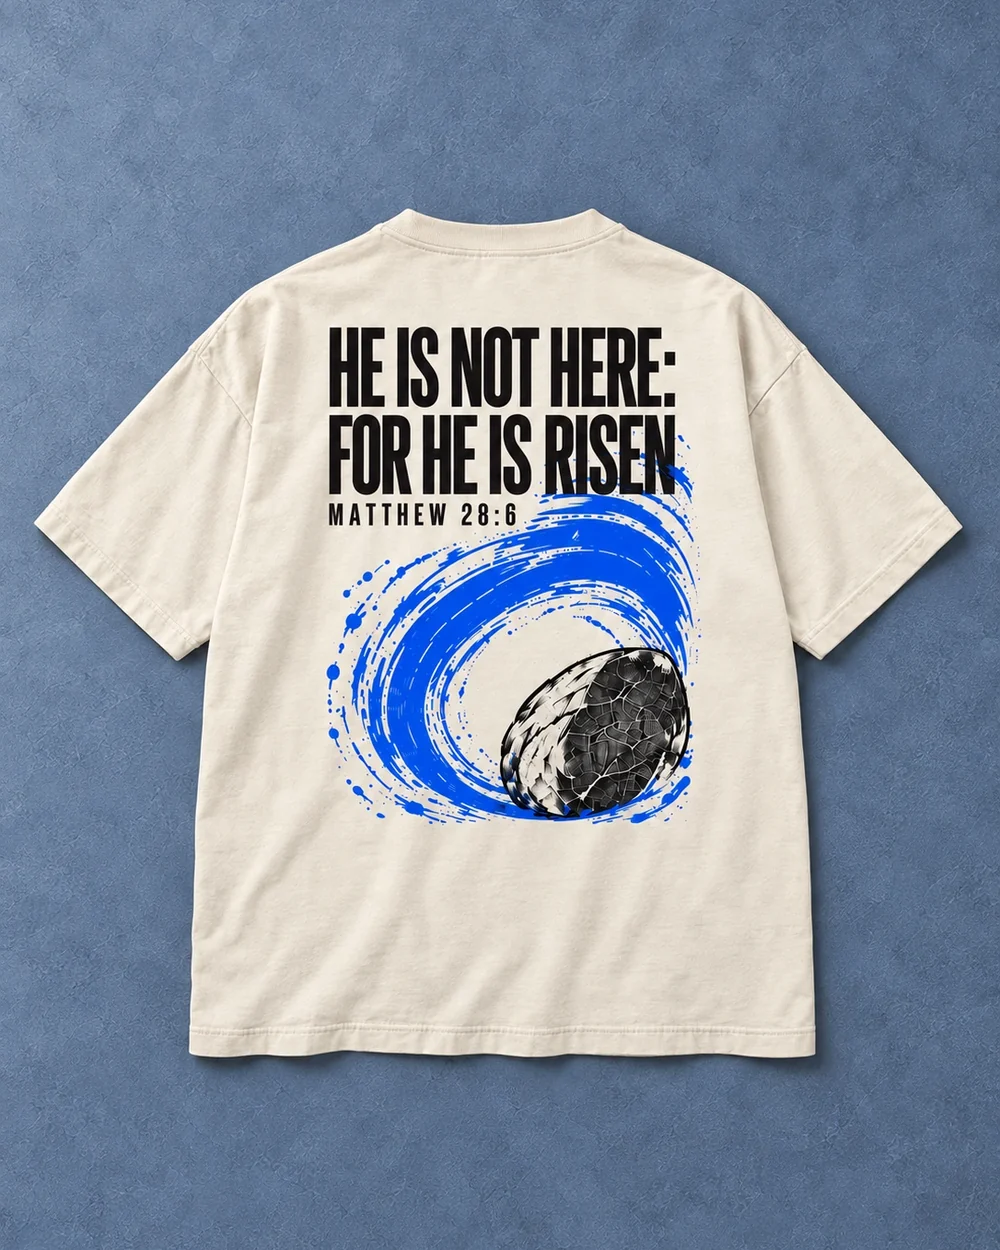
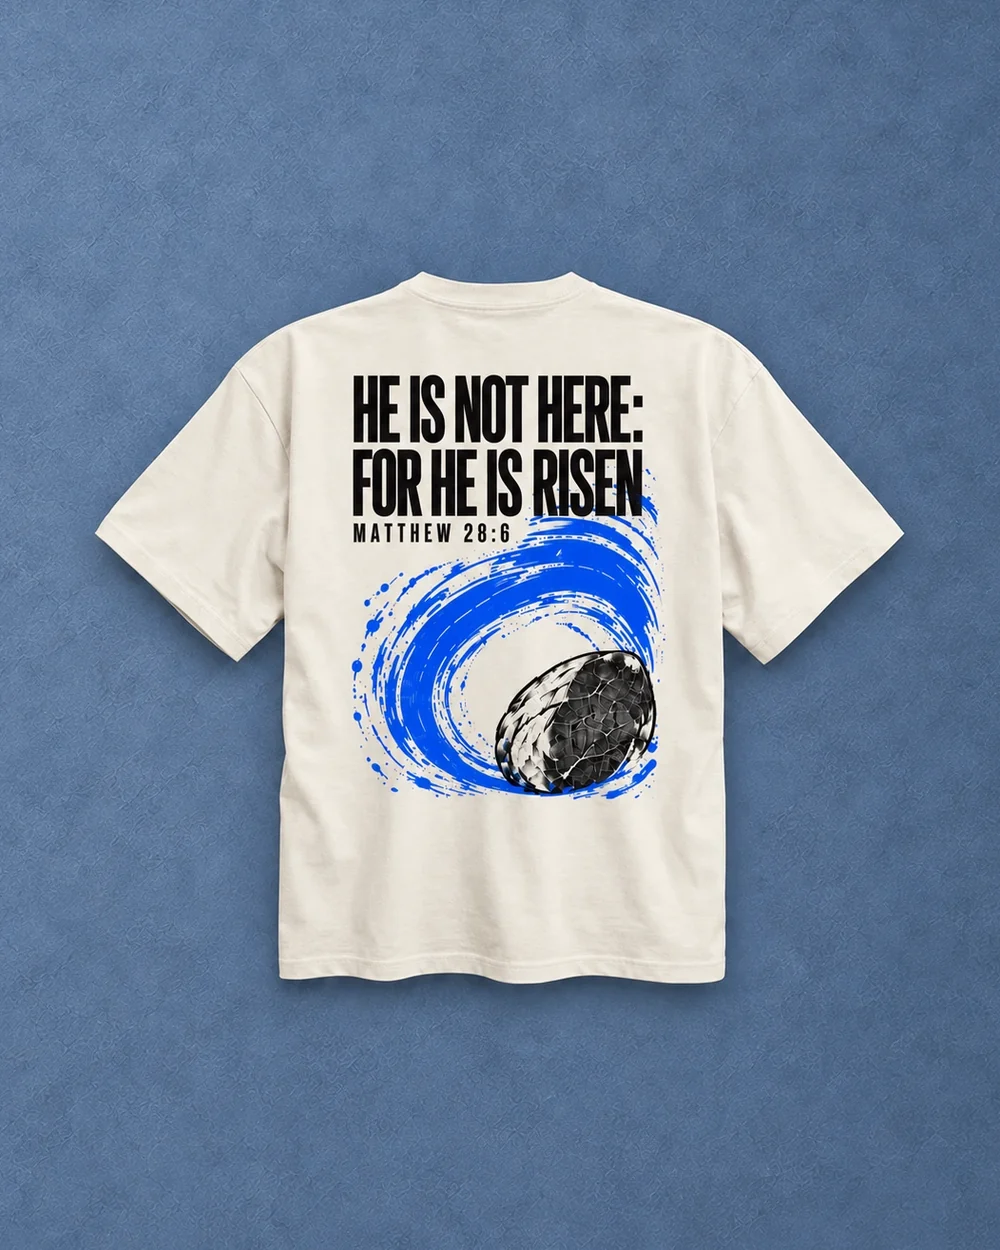
Stone in Motion's new photos; By His Hem at the same size as the other tees
- Stone in Motion: its first two images are the new Fourthwall photos (the oversized
  ecru tee as it is made), and the home page's cut-out of it follows.
- By His Hem: its listing photo was framed tighter than the rest (the garment 68% of
  the frame's height against about 57%); it is now zoomed out to the same size with
  widen.py (a `frame` in fourthwall.json).

Claude-Session: https://claude.ai/code/session_01VmqVMxiDGTr2J5oF5LgYP4

diff --git a/apps/web/AGENTS.md b/apps/web/AGENTS.md
@@ -83,7 +83,7 @@ src/
 - **Plates**: a piece's `plate` (`{ token, ink }` in `catalog.json`) names its `--plate-*` token and the ink (bone or coal) its lettering takes. `.aw-plate` (brand package) sets the field; only large lettering, filled buttons and images go inside it. A piece without a plate falls back to its listing image on coal.
 - **React 19 lint rules**: don't call setState synchronously in effects. Adjust state during render when a prop changes (see `product-grid.tsx`, `site-header.tsx`).
 - **The product stage** (`features/product/product-gallery.tsx`): on desktop the images fill the left of the page from the header down and stay put while the buy column scrolls; the column is never wider than 1.05 times its height, so a 4:5 image that covers it loses only background and always shows the whole garment. Thumbnails sit in a strip under it, never over the garment. Hovering with a mouse zooms the image 2× around the pointer; on touch, pressing and holding for 180 ms zooms and dragging looks around, while a quick swipe still changes images. Lifting the finger or leaving the image zooms back out. Tiles and cards don't zoom.
-- **Images**: product images are plain `<img>`. `public/products/<slug>/` holds the site's product images, made by `assets/mockups/fourthwall.py` and `compose.py` from each product's image list in Fourthwall, in the same order: `1.webp` (the listing image), `2.webp` (hover), and so on; four for tees and hoodies, three for caps. Finished photos are cropped to 4:5 (only photos whose background matches the piece's surface; `compose.py` reports any that don't), a photo framed tighter than the rest (a `frame` in `fourthwall.json`; none today) is zoomed out to the set's scale by `widen.py`, and Fourthwall's cut-out renders are placed on the piece's own surface. Cards get every image's address as `gallery`: on touch screens the card's image is a strip to swipe through them (`ProductCard` in `packages/brand`). After a product's images change in Fourthwall, `fourthwall.py --sync <piece>` refreshes its list and downloads it (it reads `FOURTHWALL_STOREFRONT_TOKEN` from `.env.local`), then `compose.py <piece>` rebuilds only that piece. A product not in `assets/mockups/fourthwall.json` falls back to its mockup (`front`/`back`/`side.webp`). Beside them, built from the slug and never listed in `images` in `catalog.json`: `detail.webp`, a close-up of the piece's artwork cropped from its Fourthwall render (640×800, the whole print, never enlarged, and never reaching past the garment's edge: `compose.py` prints any crop that does), shown on the home page and in the product page's design story; and the plate: `plate-wide.webp` and `plate-tall.webp` (the surface alone, lit where the garment sits) and `piece.webp` (the garment cut from the shop's first photo with its own shadow by `assets/mockups/photo_cutout.py`, so the home page's opening plate shows exactly what the shop leads with). Every piece needs all four. These images are used for previews and live products alike; Fourthwall's own photos are only a fallback (`catalog-merge.ts`). The founder portrait is `public/about/richard-{480,960}.webp`; its captions and alt text name Richard and nothing he is wearing, and it is never presented as a photo of a product.
+- **Images**: product images are plain `<img>`. `public/products/<slug>/` holds the site's product images, made by `assets/mockups/fourthwall.py` and `compose.py` from each product's image list in Fourthwall, in the same order: `1.webp` (the listing image), `2.webp` (hover), and so on; four for tees and hoodies, three for caps. Finished photos are cropped to 4:5 (only photos whose background matches the piece's surface; `compose.py` reports any that don't), a photo framed tighter than the rest (a `frame` in `fourthwall.json`; By His Hem's listing photo since October 17, 2026) is zoomed out to the set's scale by `widen.py`, and Fourthwall's cut-out renders are placed on the piece's own surface. Cards get every image's address as `gallery`: on touch screens the card's image is a strip to swipe through them (`ProductCard` in `packages/brand`). After a product's images change in Fourthwall, `fourthwall.py --sync <piece>` refreshes its list and downloads it (it reads `FOURTHWALL_STOREFRONT_TOKEN` from `.env.local`), then `compose.py <piece>` rebuilds only that piece. A product not in `assets/mockups/fourthwall.json` falls back to its mockup (`front`/`back`/`side.webp`). Beside them, built from the slug and never listed in `images` in `catalog.json`: `detail.webp`, a close-up of the piece's artwork cropped from its Fourthwall render (640×800, the whole print, never enlarged, and never reaching past the garment's edge: `compose.py` prints any crop that does), shown on the home page and in the product page's design story; and the plate: `plate-wide.webp` and `plate-tall.webp` (the surface alone, lit where the garment sits) and `piece.webp` (the garment cut from the shop's first photo with its own shadow by `assets/mockups/photo_cutout.py`, so the home page's opening plate shows exactly what the shop leads with). Every piece needs all four. These images are used for previews and live products alike; Fourthwall's own photos are only a fallback (`catalog-merge.ts`). The founder portrait is `public/about/richard-{480,960}.webp`; its captions and alt text name Richard and nothing he is wearing, and it is never presented as a photo of a product.
 - **Addresses**: build a piece's links with `pieceHref(slug)` and its owned card's with `collectionHref(slug)` (`src/shared/catalog.ts`), never by hand. A piece renamed after launch keeps its slug, which keys its Archive rows, saved hearts, orders and `public/products/<slug>/`, and gets a new address: Fear Not (The Passage until October 15, 2026) keeps the slug `the-passage` and lives at `/shop/fear-not`; the old address answers with a permanent redirect; its Fourthwall link is `fear-not-hoodie`. The catalog's name wins over the name stored in `archive_designs` (`server/archive/designs.ts`), so a rename shows before the row is refreshed. Each design's Fourthwall offer id is pinned in `archive_designs`, so orders still match a design after its Fourthwall link changes.
 - **A new release**: add a collection (slug, name, number, tagline, story, scriptureRef) and its products to `catalog.json`, each with a Scripture record (exact KJV text; the NIV field may be left empty), a design story (theme, call, art, meaning) and a `plate` (`{ token, ink }`). Add each piece's surface to `STYLE` in `assets/mockups/compose.py` and its `--plate-*` token to `packages/brand/src/styles/tokens.css`, run `compose.py` for the images, close-up and plate (check the crop in `VIEWS`), and take each `ink` from the contrast table it prints. Latest Drop, the home page, Collections and the shop selector pick it up. The home page opens on the release's first `featured: true` piece in release order (or its first piece). A release name with a character missing from `WIDTHS` in `components/fit-name.tsx` sets a little short; add the character's width.
 - **Size guides**: `sizeGuides` in `catalog.json` holds each blank's measurements exactly as the owner's guide image prints them (fractions as text, one value per `measures` column), its fit line, an optional sizing note (shown in the guide and under the size buttons; none today) and the image (`public/size-guides/*.webp`, made at 1600 px wide from the PNGs in `assets/size-guides/`; the Organic Oversized PNG has the owner's “US sizing note” box cut out). A product's `sizeGuide` picks its guide, and the guide's sizes are the sizes a preview offers. `blank` (supplier and Fourthwall id) never leaves the server. The sheet widens to 560 px for the image; the measurements also render as a table for screen readers. A guide without an image shows the table.

diff --git a/.claude/skills/awebound-brand/SKILL.md b/.claude/skills/awebound-brand/SKILL.md
@@ -89,7 +89,7 @@ What every page leaves out on purpose: labels above headings, status chips, glow
 
 ## Imagery and product photos
 
-- Product images show **the item exactly as Fourthwall will make it**, and follow each product's image list in Fourthwall, in the same order: the first is the listing image. Tees and hoodies have four images, caps three. Fourthwall's finished photos are shown as they are (cropped to 4:5), and each piece's surface is matched to its photos' background, so every image of a piece shares one background. Every garment sits at the same scale: Fourthwall's photos are framed alike (Stone in Motion's were reframed in Fourthwall in October 2026 to match the others and are shown as they are). A photo framed tighter than the rest is zoomed out to the others' scale: the garment is cut from the photo with its own shadow and its sleeve tips completed from its own fabric, on a background made fresh from the photo's own light and grain so it is even from edge to edge, never touching the print. A photo that shows the print wrongly is left out until it is replaced in Fourthwall, with Fourthwall's cut-out render of the correct print on the surface in its place. A piece not yet in Fourthwall uses a clean cutout of the approved mockup. Each garment sits on its own surface, with a soft realistic shadow and enough contrast to set the garment apart. The set shares the 4:5 canvas, margins and garment scale (tees about three quarters of the width) so the grid reads as one family; each piece gets its own surface, a color drawn from its artwork with its own texture and light, so every piece looks distinct.
+- Product images show **the item exactly as Fourthwall will make it**, and follow each product's image list in Fourthwall, in the same order: the first is the listing image. Tees and hoodies have four images, caps three. Fourthwall's finished photos are shown as they are (cropped to 4:5), and each piece's surface is matched to its photos' background, so every image of a piece shares one background. Every garment sits at the same scale: Fourthwall's photos are framed alike (Stone in Motion's were reframed in Fourthwall in October 2026 to match the others and are shown as they are). Every tee's listing image shows the garment at one size (about 57% of the 4:5 frame's height), so no piece looks bigger than the rest; a photo framed tighter than the rest is zoomed out to the others' scale: the garment is cut from the photo with its own shadow and its sleeve tips completed from its own fabric, on a background made fresh from the photo's own light and grain so it is even from edge to edge, never touching the print. A photo that shows the print wrongly is left out until it is replaced in Fourthwall, with Fourthwall's cut-out render of the correct print on the surface in its place. A piece not yet in Fourthwall uses a clean cutout of the approved mockup. Each garment sits on its own surface, with a soft realistic shadow and enough contrast to set the garment apart. The set shares the 4:5 canvas, margins and garment scale (tees about three quarters of the width) so the grid reads as one family; each piece gets its own surface, a color drawn from its artwork with its own texture and light, so every piece looks distinct.
 - Behold surfaces: Still the Storm, deep storm slate with cloud-soft texture lit from above; By His Hem, muted sage plaster (the rust print's complement); Thorns to Lilies, deep oxblood plaster under a spotlight; Torn Veil, deep crimson plaster lit from above; Stone in Motion, dusty cornflower stone with a fine speckle; To Live Is Christ, warm ochre plaster lit from above; Fear Not, pale sandstone plaster lit from the upper left; Wonderfully Made, warm rose paper lit from above; Lamb's Mark, warm linen lit from the upper left; Signature Cap, warm sand concrete with a fine speckle lit from above.
 - Every piece has a close-up (`detail.webp` beside its images): a crop of the artwork from its Fourthwall render (or from a photo when the print changed after the render, as for Fear Not), the whole print on its fabric and nothing else, never enlarged, retouched or recolored. The home page and the product page’s design story show it. It is not part of the product gallery.
 - **Plates.** Each piece’s surface is also rendered alone, as a wide and a tall field (`plate-wide.webp`, `plate-tall.webp`), with the listing image's garment cut out on its own (`piece.webp`): cut from the shop's first photo itself, with that photo's own shadow, so the home page shows exactly what the shop leads with (a tee's sleeves that run off the photo are completed, a hoodie's faded at the photo's edge; Fourthwall's current photos show every garment whole). The home page opens on the pieces’ plates in turn and every product page sets its design story on one. A plate carries only lettering of 24px and up, filled buttons and images; small text stays on coal or bone. The ink on a plate is bone or coal, chosen from the rendered plate so lettering clears 3:1 (bone on oxblood, slate, sage, cornflower and crimson; coal on ochre, sandstone, rose, linen and concrete). Plate colors (`plate-*` tokens) are photography, not interface: never on links, borders, text or controls.

diff --git a/docs/BRAND.md b/docs/BRAND.md
@@ -86,7 +86,7 @@ What every page leaves out on purpose: labels above headings, status chips, glow
 
 ## Imagery and product photos
 
-- Product images show **the item exactly as Fourthwall will make it**, and follow each product's image list in Fourthwall, in the same order: the first is the listing image. Tees and hoodies have four images, caps three. Fourthwall's finished photos are shown as they are (cropped to 4:5), and each piece's surface is matched to its photos' background, so every image of a piece shares one background. Every garment sits at the same scale: Fourthwall's photos are framed alike (Stone in Motion's were reframed in Fourthwall in October 2026 to match the others and are shown as they are). A photo framed tighter than the rest is zoomed out to the others' scale: the garment is cut from the photo with its own shadow and its sleeve tips completed from its own fabric, on a background made fresh from the photo's own light and grain so it is even from edge to edge, never touching the print. A photo that shows the print wrongly is left out until it is replaced in Fourthwall, with Fourthwall's cut-out render of the correct print on the surface in its place. A piece not yet in Fourthwall uses a clean cutout of the approved mockup. Each garment sits on its own surface, with a soft realistic shadow and enough contrast to set the garment apart. The set shares the 4:5 canvas, margins and garment scale (tees about three quarters of the width) so the grid reads as one family; each piece gets its own surface, a color drawn from its artwork with its own texture and light, so every piece looks distinct.
+- Product images show **the item exactly as Fourthwall will make it**, and follow each product's image list in Fourthwall, in the same order: the first is the listing image. Tees and hoodies have four images, caps three. Fourthwall's finished photos are shown as they are (cropped to 4:5), and each piece's surface is matched to its photos' background, so every image of a piece shares one background. Every garment sits at the same scale: Fourthwall's photos are framed alike (Stone in Motion's were reframed in Fourthwall in October 2026 to match the others and are shown as they are). Every tee's listing image shows the garment at one size (about 57% of the 4:5 frame's height), so no piece looks bigger than the rest; a photo framed tighter than the rest is zoomed out to the others' scale: the garment is cut from the photo with its own shadow and its sleeve tips completed from its own fabric, on a background made fresh from the photo's own light and grain so it is even from edge to edge, never touching the print. A photo that shows the print wrongly is left out until it is replaced in Fourthwall, with Fourthwall's cut-out render of the correct print on the surface in its place. A piece not yet in Fourthwall uses a clean cutout of the approved mockup. Each garment sits on its own surface, with a soft realistic shadow and enough contrast to set the garment apart. The set shares the 4:5 canvas, margins and garment scale (tees about three quarters of the width) so the grid reads as one family; each piece gets its own surface, a color drawn from its artwork with its own texture and light, so every piece looks distinct.
 - Behold surfaces: Still the Storm, deep storm slate with cloud-soft texture lit from above; By His Hem, muted sage plaster (the rust print's complement); Thorns to Lilies, deep oxblood plaster under a spotlight; Torn Veil, deep crimson plaster lit from above; Stone in Motion, dusty cornflower stone with a fine speckle; To Live Is Christ, warm ochre plaster lit from above; Fear Not, pale sandstone plaster lit from the upper left; Wonderfully Made, warm rose paper lit from above; Lamb's Mark, warm linen lit from the upper left; Signature Cap, warm sand concrete with a fine speckle lit from above.
 - Every piece has a close-up (`detail.webp` beside its images): a crop of the artwork from its Fourthwall render (or from a photo when the print changed after the render, as for Fear Not), the whole print on its fabric and nothing else, never enlarged, retouched or recolored. The home page and the product page’s design story show it. It is not part of the product gallery.
 - **Plates.** Each piece’s surface is also rendered alone, as a wide and a tall field (`plate-wide.webp`, `plate-tall.webp`), with the listing image's garment cut out on its own (`piece.webp`): cut from the shop's first photo itself, with that photo's own shadow, so the home page shows exactly what the shop leads with (a tee's sleeves that run off the photo are completed, a hoodie's faded at the photo's edge; Fourthwall's current photos show every garment whole). The home page opens on the pieces’ plates in turn and every product page sets its design story on one. A plate carries only lettering of 24px and up, filled buttons and images; small text stays on coal or bone. The ink on a plate is bone or coal, chosen from the rendered plate so lettering clears 3:1 (bone on oxblood, slate, sage, cornflower and crimson; coal on ochre, sandstone, rose, linen and concrete). Plate colors (`plate-*` tokens) are photography, not interface: never on links, borders, text or controls.
